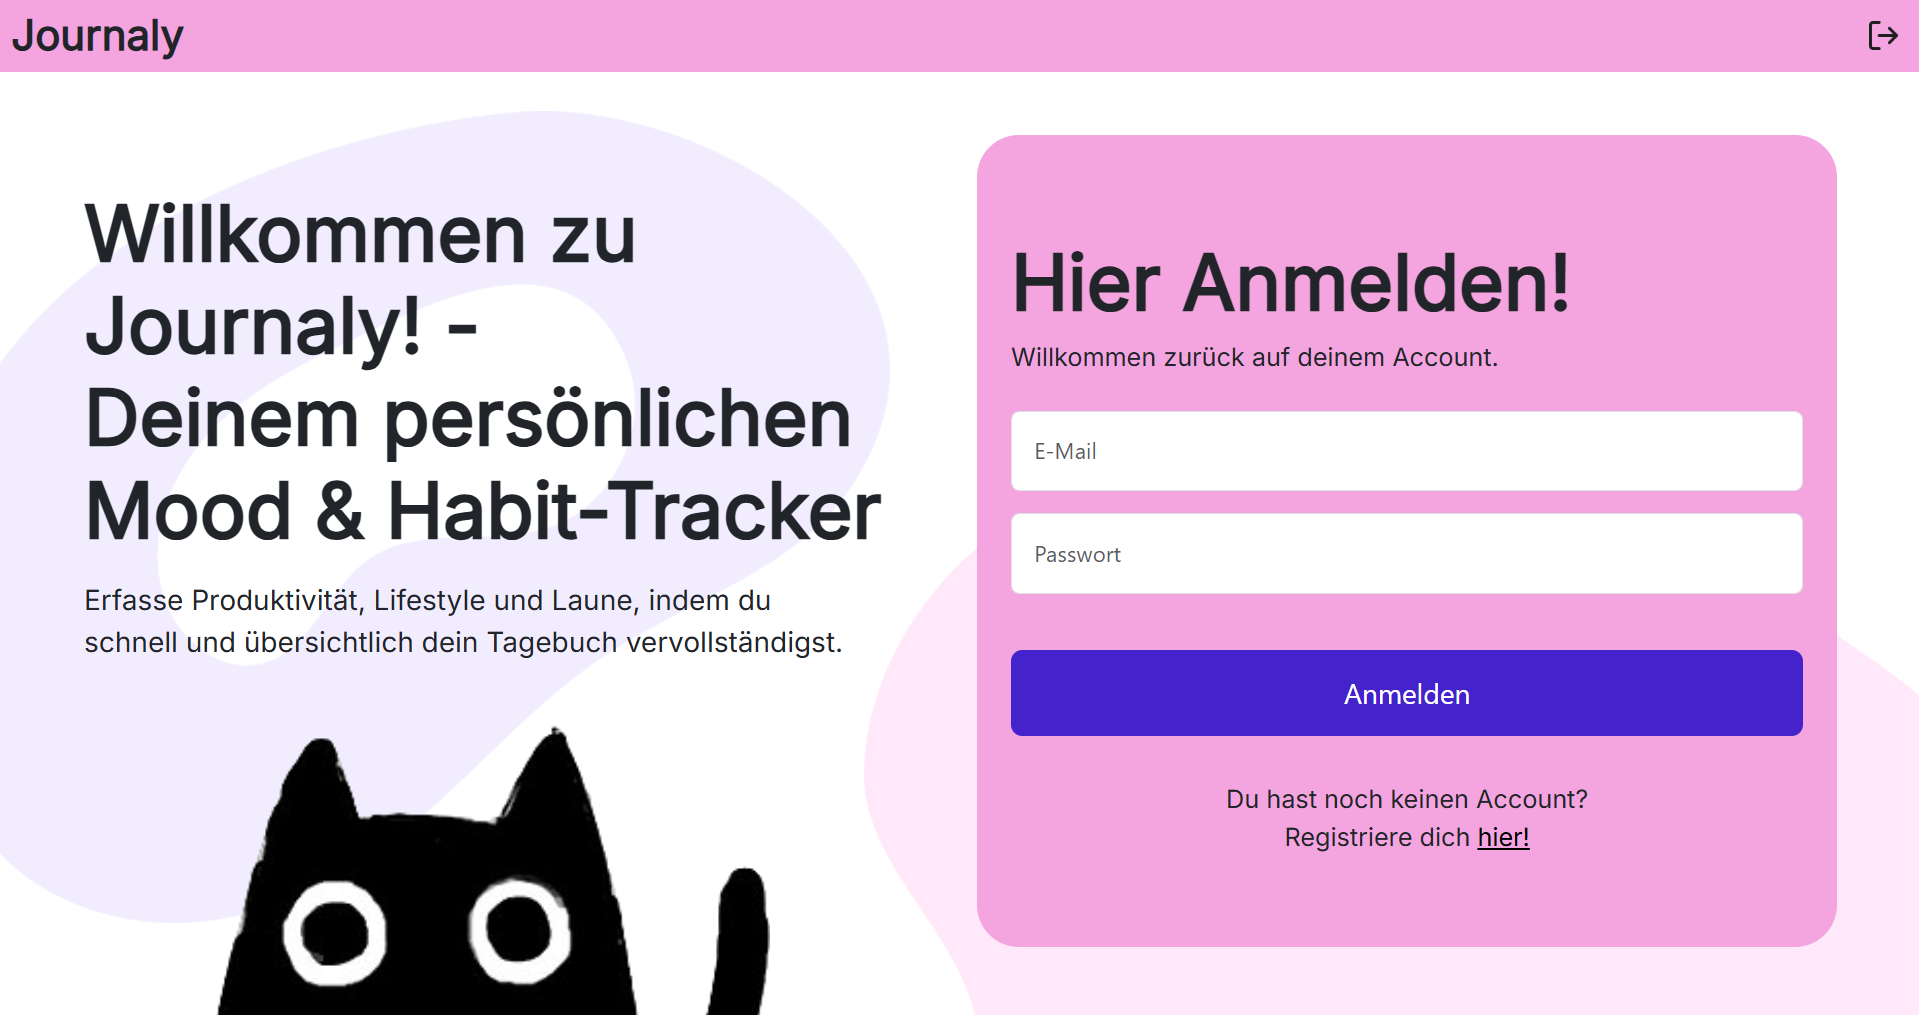
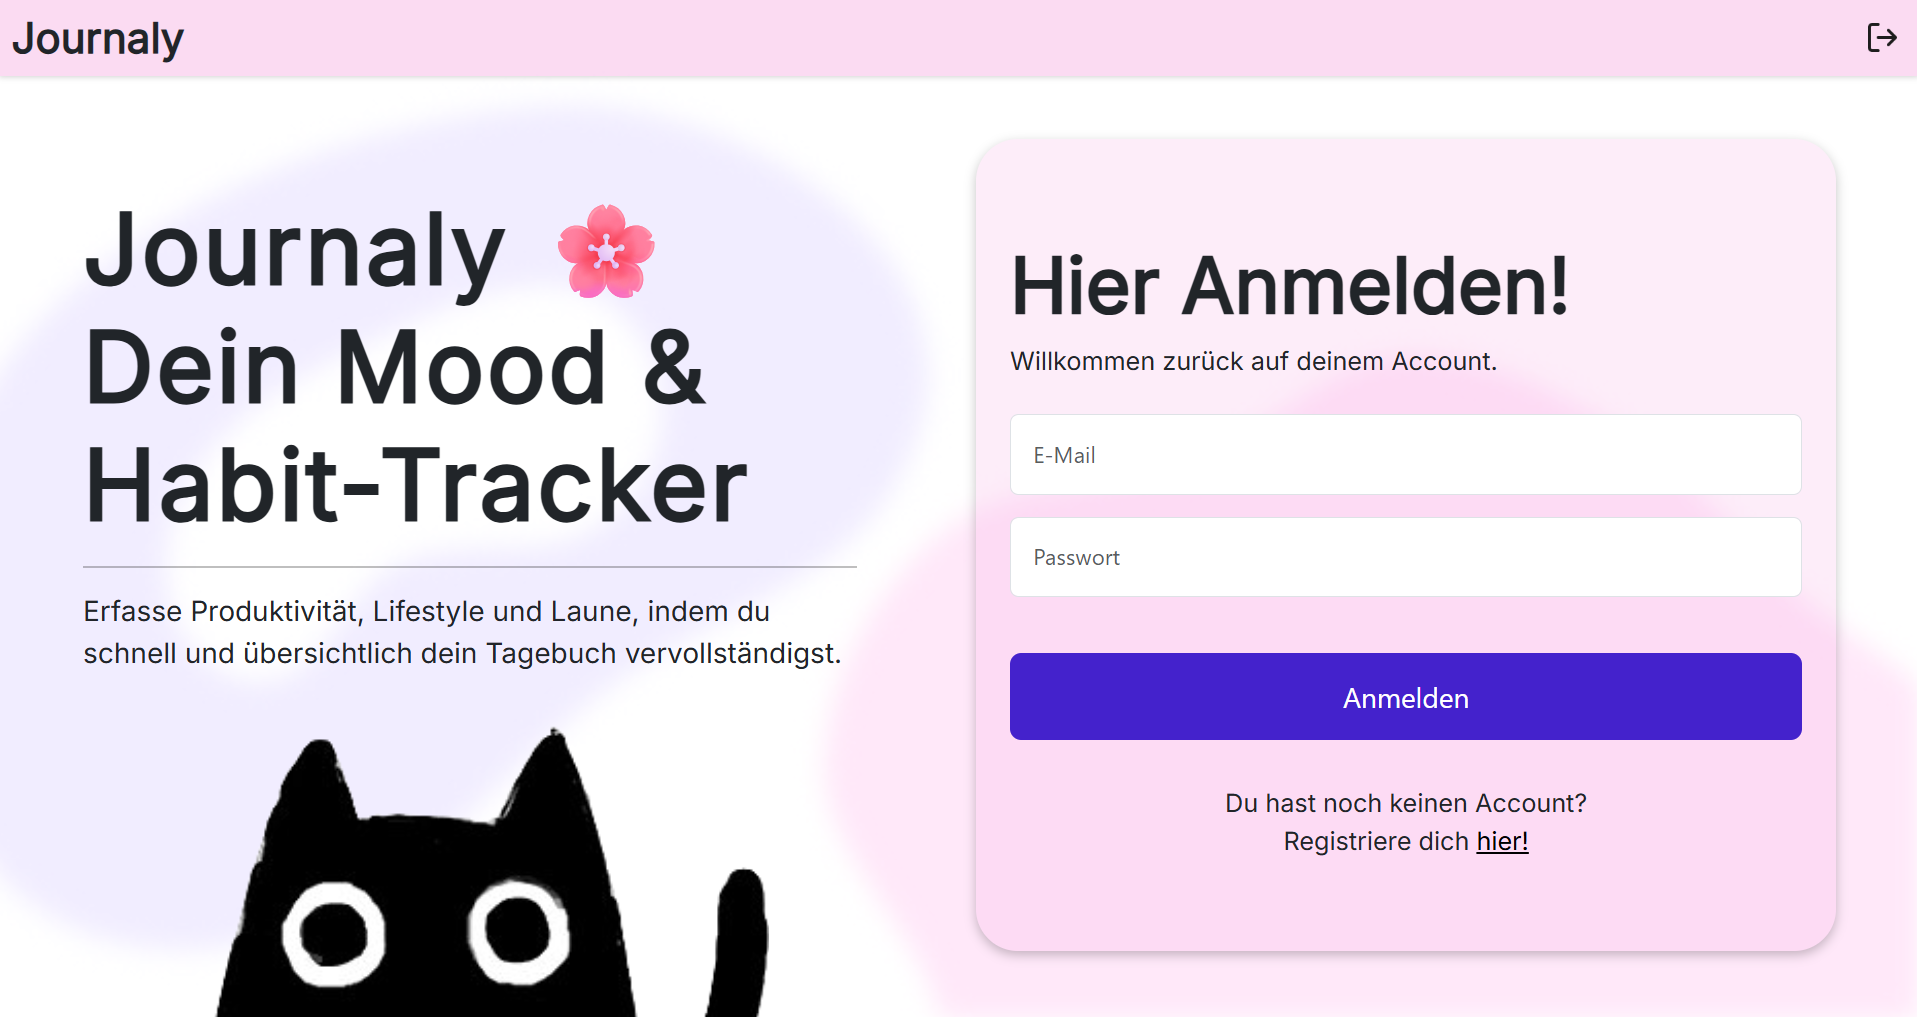
Frontend Anpassung und Readme

diff --git a/backend/routes.js b/backend/routes.js
@@ -4,6 +4,7 @@ const bcrypt = require("bcrypt");
 const User = require("./models/user.js");
 const Entry = require("./models/entry.js");
 const authMiddleware = require('./middleware/admin.js');
+const adminMiddleware = require('./middleware/admin.js');
 
 router.post('/register', async (req, res) => {
   const { name, email, password } = req.body;
@@ -17,7 +18,7 @@ router.post('/register', async (req, res) => {
   res.status(201).send({ message: 'Nutzer erfolgreich registriert.' });
 });
 
-router.delete('/user/:id', authMiddleware, async(req, res) => {
+router.delete('/user/:id', authMiddleware, adminMiddleware, async(req, res) => {
     try {
         await User.deleteOne({ _id: req.params.id }) 
         res.status(204).send()
@@ -27,7 +28,7 @@ router.delete('/user/:id', authMiddleware, async(req, res) => {
     }
 });
 
-router.get('/user', authMiddleware, async (req, res) => {
+router.get('/user', authMiddleware, adminMiddleware, async (req, res) => {
   try {
     const allUsers = await User.find();
     console.log(allUsers);

diff --git a/frontend/src/app/login/login.html b/frontend/src/app/login/login.html
@@ -2,15 +2,14 @@
 <img src="images/Form1.png" alt="Form1" class="form1-bg">
 <img src="images/Form2.png" alt="Form2" class="form2-bg">
 <div class="container mt-4">
-  
+
     <div class="row">
         <div class="col-md-6 mt-4">
           
-<h1>Willkommen zu<br>
-  Journaly! - <br>
-  Dein persönlicher <br>
-  Mood & <span class="nowrap">Habit-Tracker</span></h1>
-<p class="beschreibung mt-3">Erfasse Produktivität, Lifestyle und Laune, indem du <br> schnell und übersichtlich dein Tagebuch vervollständigst.</p>
+<h1 class="Titel">
+  Journaly 🌸<br> Dein Mood & Habit-Tracker <hr></h1>
+<p class="beschreibung mt-3">Erfasse Produktivität, 
+  Lifestyle und Laune, indem du <br> schnell und übersichtlich dein Tagebuch vervollständigst.</p>
 <img src="images/catcut.png" alt="Katze" class="cat-img"/>
 </div>
 

diff --git a/frontend/src/app/register/register.html b/frontend/src/app/register/register.html
@@ -3,11 +3,10 @@
 <div class="container mt-4">
     <div class="row">
         <div class="col-md-6 mt-4">
-<h1>Willkommen zu<br>
-  Journaly! - <br>
-  Dein persönlicher <br>
-  Mood & <span class="nowrap">Habit-Tracker</span></h1>
-<p class="beschreibung mt-3">Erfasse Produktivität, Lifestyle und Laune, indem du <br>schnell und übersichtlich dein Tagebuch vervollständigst.</p>
+<h1 class="Titel">
+  Journaly 🌸<br> Dein Mood & Habit-Tracker <hr></h1>
+<p class="beschreibung mt-3">Erfasse Produktivität, 
+  Lifestyle und Laune, indem du <br> schnell und übersichtlich dein Tagebuch vervollständigst.</p>
 <img src="/images/catcut.png" alt="Katze" class="cat-img"/>
 </div>
 

diff --git a/frontend/src/app/register/register.css b/frontend/src/app/register/register.css
@@ -5,8 +5,21 @@ h1 {
     font-size: 55px;
     
 }
+.Titel {
+    font-size: 70px;
+    font-weight: bold;
+    margin-bottom: 10px;
+    margin-top: 10px;
+    font-family: 'Inter', sans-serif;
+    letter-spacing: 2px; }
+    
 .nowrap {
-    white-space: nowrap; /* Verhindert Zeilenumbruch */
+    white-space: nowrap; 
+}
+hr {
+  border: none;
+  border-top: 2px solid #000000;
+  width: 90%;
 }
 p {
     margin-top:10px;

diff --git a/frontend/src/app/login/login.css b/frontend/src/app/login/login.css
@@ -5,9 +5,23 @@ h1 {
     font-size: 55px;
     
 }
+.Titel {
+    font-size: 70px;
+    font-weight: bold;
+    margin-bottom: 10px;
+    margin-top: 10px;
+    font-family: 'Inter', sans-serif;
+    letter-spacing: 2px; }
+    
 .nowrap {
     white-space: nowrap; 
 }
+hr {
+  border: none;
+  border-top: 2px solid #000000;
+  width: 90%;
+}
+
 p {
     margin-top:10px;
     font-family: 'Inter', sans-serif;

diff --git a/backend/routes/entry.js b/backend/routes/entry.js
@@ -85,7 +85,7 @@ router.patch('/:id', authMiddleware, async (req, res) => {
   }
 });
 
-router.delete('/:id', async(req, res) => {
+router.delete('/:id', authMiddleware, async(req, res) => {
     try {
         await Entry.deleteOne({ _id: req.params.id })
         res.status(204).send()

diff --git a/backend/routes/auth.js b/backend/routes/auth.js
@@ -6,7 +6,6 @@ const jwt = require('jsonwebtoken');
 
 const JWT_SECRET = process.env.JWT_SECRET || 'schluessel';
 
-
 router.post('/login', async (req, res) => {
   const { email, password } = req.body;
   const user = await User.findOne({ email });

diff --git a/frontend/README.md b/frontend/README.md
@@ -32,7 +32,7 @@ Journaly ist eine simple Tagebuch-Webanwendung für jeden, der sein tägliches L
 
 **Gewohnheiten**
 
-![Gewohnheiten](screenshots/gewohnheite1.png)
+![Gewohnheiten](screenshots/gewohnheiten1.png)
 
 ![Gewohnheiten](screenshots/gewohnheiten2.png)
 
@@ -42,7 +42,7 @@ Journaly ist eine simple Tagebuch-Webanwendung für jeden, der sein tägliches L
 
 **Übersicht der Einträge**
 
-![Übersicht](screenshots/üebrsicht.png)
+![Übersicht](screenshots/uebersicht.png)
 
 **Bearbeiten von Einträgen**
 ![Bearbeiten](screenshots/bearbeiten.png)
@@ -61,9 +61,6 @@ Journaly ist eine simple Tagebuch-Webanwendung für jeden, der sein tägliches L
 **Projekt klonen**
 
 git clone https://github.com/malourichter/Webtech-Projekt.git
-
-
-
 
 
 **Nutzung von KI**
